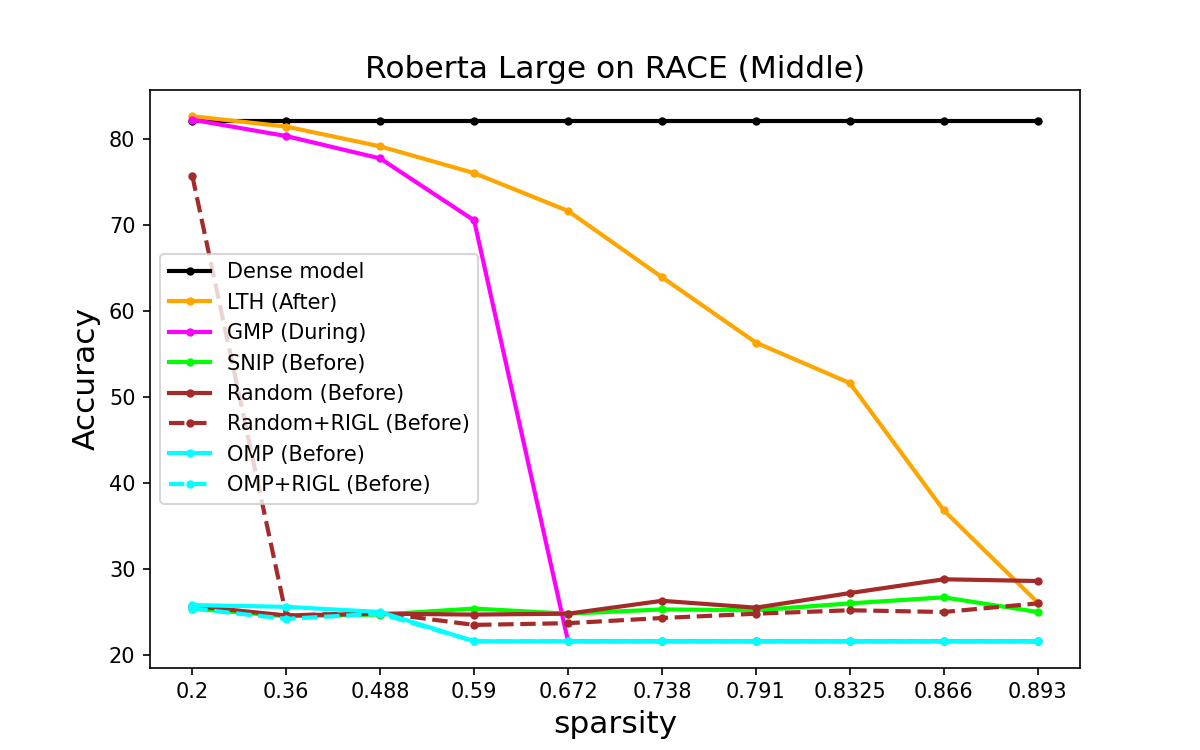
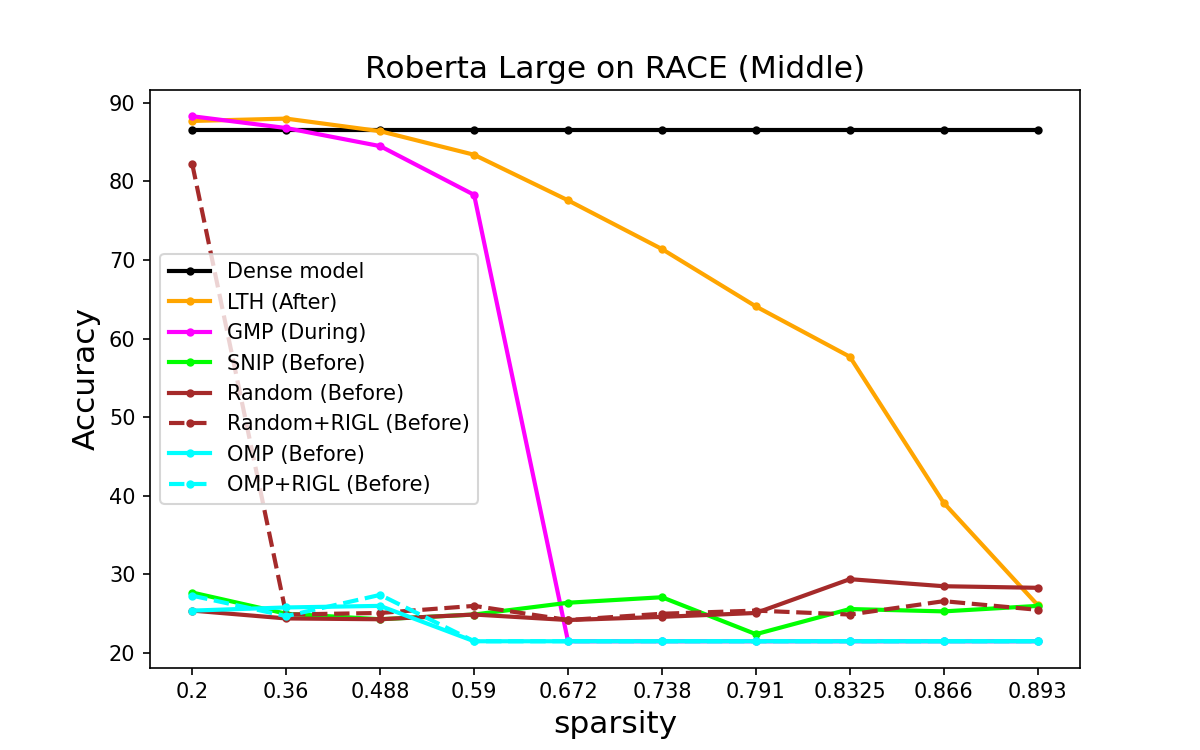
race snip rigl test

diff --git a/plot/race.py b/plot/race.py
@@ -58,7 +58,7 @@ with open('/Users/liushiwei/Projects/fairseq/results/reasoning/race/cobert_race_
 
 acc_test_imp = acc_test[:10]
 acc_test_imp.append(26.1)
-acc_test_gm = acc_test[10:20]
+acc_test_omp = acc_test[10:20]
 acc_test_snip = acc_test[20:29]
 acc_test_snip.append(26.0)
 
@@ -87,58 +87,47 @@ x_axis = range(10)
 
 
 # high
-roberta_large = fig.add_subplot(1,1,1)
-roberta_large.plot(x_axis, [acc_test_imp_high[0]]*10,  '-o',   label='Dense model',color='black',linewidth=linewidth, markersize=markersize, )
-roberta_large.plot(x_axis, acc_test_imp_high[1:],  '-o',   label='LTH (After)',color='orange',linewidth=linewidth, markersize=markersize, )
-# roberta_large.plot(x_axis, acc_test_omp_after_high,  '-o',   label='One-Shot LRR (After)',color='#77AC30',linewidth=linewidth, markersize=markersize, )
-# roberta_large.plot(x_axis, acc_test_random_after_high,  '-o',   label='Random LRR (After)',color='#0072BD',linewidth=linewidth, markersize=markersize, )
-roberta_large.plot(x_axis, acc_test_gmp_high,  '-o',   label='GMP (During)',color='magenta',linewidth=linewidth, markersize=markersize, )
-
-
-roberta_large.plot(x_axis, acc_test_snip_high,  '-o',   label='SNIP (Before)',color='#00FF00',linewidth=linewidth, markersize=markersize, )
-# roberta_large.plot(x_axis, robert_snip_rigl,  '--o',   label='SNIP+RIGL (Before)',color='#00FF00',linewidth=linewidth, markersize=markersize )
-roberta_large.plot(x_axis, acc_test_random_high,  '-o',   label='Random (Before)',color='brown',linewidth=linewidth, markersize=markersize, )
-roberta_large.plot(x_axis, acc_test_random_rigl_high,  '--o',   label='Random+RIGL (Before)',color='brown',linewidth=linewidth, markersize=markersize)
-roberta_large.plot(x_axis, acc_test_omp_high,  '-o',   label='OMP (Before)' ,color='cyan',linewidth=linewidth, markersize=markersize, )
-roberta_large.plot(x_axis, acc_test_omp_rigl_high,  '--o',   label='OMP+RIGL (Before)',color='cyan',linewidth=linewidth, markersize=markersize )
-
-
-
 # roberta_large = fig.add_subplot(1,1,1)
 # roberta_large.plot(x_axis, [acc_test_imp_high[0]]*10,  '-o',   label='Dense model',color='black',linewidth=linewidth, markersize=markersize, )
-# roberta_large.plot(x_axis, acc_test_snip_high,  '-',   label='SNIP',color='blue',linewidth=linewidth, markersize=markersize, )
-# roberta_large.plot(x_axis, acc_test_gmp_high,  '-',   label='GMP',color='yellow',linewidth=linewidth, markersize=markersize, )
-# # roberta_large.plot(x_axis, robert_snip_rigl,  '-',   label='SNIP+RIGL',color='blue',linewidth=linewidth, markersize=markersize, marker='^'  )
-# roberta_large.plot(x_axis, acc_test_imp_high[1:],  '-',   label='LTH',color='orange',linewidth=linewidth, markersize=markersize, )
-# roberta_large.plot(x_axis, acc_test_gm_high,  '-',   label='OMP Before',color='green',linewidth=linewidth, markersize=markersize, )
-# roberta_large.plot(x_axis, acc_test_omp_after_high,  '--',   label='OMP After',color='green',linewidth=linewidth, markersize=markersize, )
-# roberta_large.plot(x_axis, acc_test_omp_rigl_high,  '-',   label='OMP+RIGL',color='green',linewidth=linewidth, markersize=markersize, marker='^' )
-# roberta_large.plot(x_axis, acc_test_random_high,  '-',   label='Random Before',color='purple',linewidth=linewidth, markersize=markersize, )
-# roberta_large.plot(x_axis, acc_test_random_after_high,  '--',   label='Random After',color='purple',linewidth=linewidth, markersize=markersize, )
-# roberta_large.plot(x_axis, acc_test_random_rigl_high,  '-',   label='Random+RIGL',color='purple',linewidth=linewidth, markersize=markersize, marker='^' )
+# roberta_large.plot(x_axis, acc_test_imp_high[1:],  '-o',   label='LTH (After)',color='orange',linewidth=linewidth, markersize=markersize, )
+# # roberta_large.plot(x_axis, acc_test_omp_after_high,  '-o',   label='One-Shot LRR (After)',color='#77AC30',linewidth=linewidth, markersize=markersize, )
+# # roberta_large.plot(x_axis, acc_test_random_after_high,  '-o',   label='Random LRR (After)',color='#0072BD',linewidth=linewidth, markersize=markersize, )
+# roberta_large.plot(x_axis, acc_test_gmp_high,  '-o',   label='GMP (During)',color='magenta',linewidth=linewidth, markersize=markersize, )
+#
+#
+# roberta_large.plot(x_axis, acc_test_snip_high,  '-o',   label='SNIP (Before)',color='#00FF00',linewidth=linewidth, markersize=markersize, )
+# # roberta_large.plot(x_axis, robert_snip_rigl,  '--o',   label='SNIP+RIGL (Before)',color='#00FF00',linewidth=linewidth, markersize=markersize )
+# roberta_large.plot(x_axis, acc_test_random_high,  '-o',   label='Random (Before)',color='brown',linewidth=linewidth, markersize=markersize, )
+# roberta_large.plot(x_axis, acc_test_random_rigl_high,  '--o',   label='Random+RIGL (Before)',color='brown',linewidth=linewidth, markersize=markersize)
+# roberta_large.plot(x_axis, acc_test_omp_high,  '-o',   label='OMP (Before)' ,color='cyan',linewidth=linewidth, markersize=markersize, )
+# roberta_large.plot(x_axis, acc_test_omp_rigl_high,  '--o',   label='OMP+RIGL (Before)',color='cyan',linewidth=linewidth, markersize=markersize )
+
 
 # middle
-
-# roberta_large = fig.add_subplot(1,1,1)
-# roberta_large.plot(x_axis, [acc_test_imp[0]]*10,  '-o',   label='Dense model',color='black',linewidth=linewidth, markersize=markersize, )
-# roberta_large.plot(x_axis, acc_test_snip,  '-',   label='SNIP',color='blue',linewidth=linewidth, markersize=markersize, )
-# roberta_large.plot(x_axis, acc_test_gmp,  '-',   label='GMP',color='yellow',linewidth=linewidth, markersize=markersize, )
-# # roberta_large.plot(x_axis, robert_snip_rigl,  '-',   label='SNIP+RIGL',color='blue',linewidth=linewidth, markersize=markersize, marker='^'  )
-# roberta_large.plot(x_axis, acc_test_imp[1:],  '-',   label='LTH',color='orange',linewidth=linewidth, markersize=markersize, )
-# roberta_large.plot(x_axis, acc_test_gm,  '-',   label='OMP Before',color='green',linewidth=linewidth, markersize=markersize, )
-# roberta_large.plot(x_axis, acc_test_omp_after,  '--',   label='OMP After',color='green',linewidth=linewidth, markersize=markersize, )
-# roberta_large.plot(x_axis, acc_test_omp_rigl,  '-',   label='OMP+RIGL',color='green',linewidth=linewidth, markersize=markersize, marker='^' )
-# roberta_large.plot(x_axis, acc_test_random,  '-',   label='Random Before',color='purple',linewidth=linewidth, markersize=markersize, )
-# roberta_large.plot(x_axis, acc_test_random_after,  '--',   label='Random After',color='purple',linewidth=linewidth, markersize=markersize, )
-# roberta_large.plot(x_axis, acc_test_random_rigl,  '-',   label='Random+RIGL',color='purple',linewidth=linewidth, markersize=markersize, marker='^' )
+roberta_large = fig.add_subplot(1,1,1)
+roberta_large.plot(x_axis, [acc_test_imp[0]]*10,  '-o',   label='Dense model',color='black',linewidth=linewidth, markersize=markersize, )
+roberta_large.plot(x_axis, acc_test_imp[1:],  '-o',   label='LTH (After)',color='orange',linewidth=linewidth, markersize=markersize, )
+# roberta_large.plot(x_axis, acc_test_omp_after_high,  '-o',   label='One-Shot LRR (After)',color='#77AC30',linewidth=linewidth, markersize=markersize, )
+# roberta_large.plot(x_axis, acc_test_random_after_high,  '-o',   label='Random LRR (After)',color='#0072BD',linewidth=linewidth, markersize=markersize, )
+roberta_large.plot(x_axis, acc_test_gmp,  '-o',   label='GMP (During)',color='magenta',linewidth=linewidth, markersize=markersize, )
 
 
-roberta_large.set_title('Roberta Large on RACE (High)',fontsize=fontsize)
+roberta_large.plot(x_axis, acc_test_snip,  '-o',   label='SNIP (Before)',color='#00FF00',linewidth=linewidth, markersize=markersize, )
+# roberta_large.plot(x_axis, robert_snip_rigl,  '--o',   label='SNIP+RIGL (Before)',color='#00FF00',linewidth=linewidth, markersize=markersize )
+roberta_large.plot(x_axis, acc_test_random,  '-o',   label='Random (Before)',color='brown',linewidth=linewidth, markersize=markersize, )
+roberta_large.plot(x_axis, acc_test_random_rigl,  '--o',   label='Random+RIGL (Before)',color='brown',linewidth=linewidth, markersize=markersize)
+roberta_large.plot(x_axis, acc_test_omp,  '-o',   label='OMP (Before)' ,color='cyan',linewidth=linewidth, markersize=markersize, )
+roberta_large.plot(x_axis, acc_test_omp_rigl,  '--o',   label='OMP+RIGL (Before)',color='cyan',linewidth=linewidth, markersize=markersize )
+
+
+
+
+roberta_large.set_title('Roberta Large on RACE (Middle)',fontsize=fontsize)
 roberta_large.set_xticks(range(10))
 roberta_large.set_xticklabels(np.array( [0.2, 0.36, 0.488, 0.590, 0.672, 0.738, 0.791, 0.8325, 0.866, 0.893]), fontsize=10 )
 
 roberta_large.set_ylabel('Accuracy', fontsize=fontsize)
 roberta_large.set_xlabel('sparsity',fontsize=fontsize)
 plt.legend()
-plt.savefig('Roberta_race_high.png')
+plt.savefig('Roberta_race_middle.png')
 plt.show()
